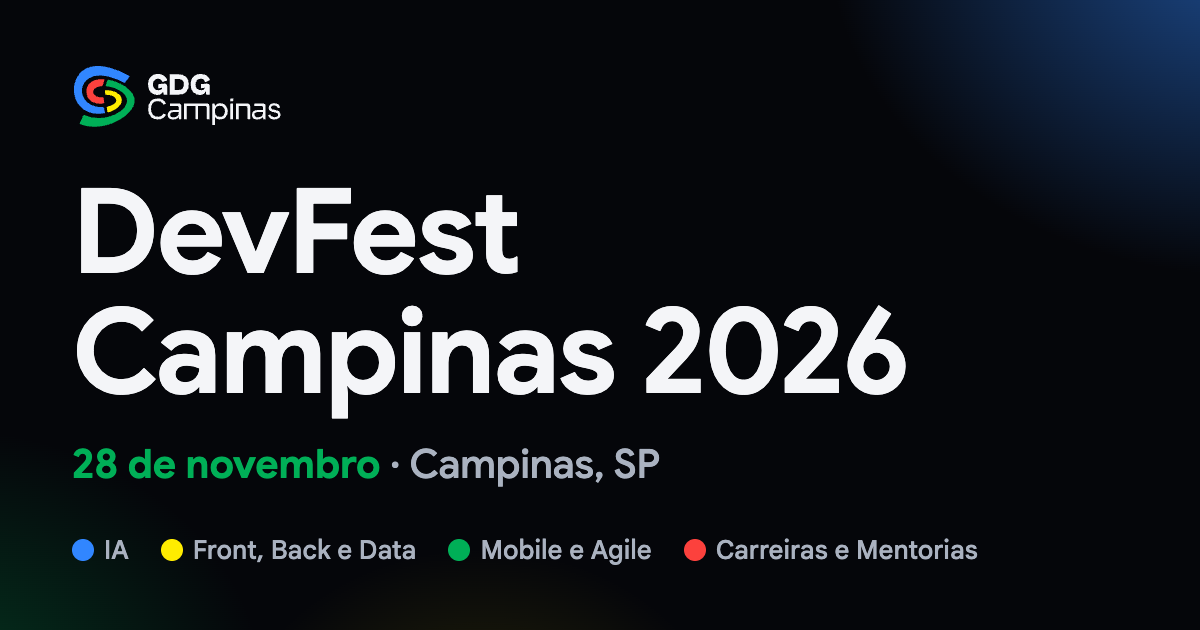
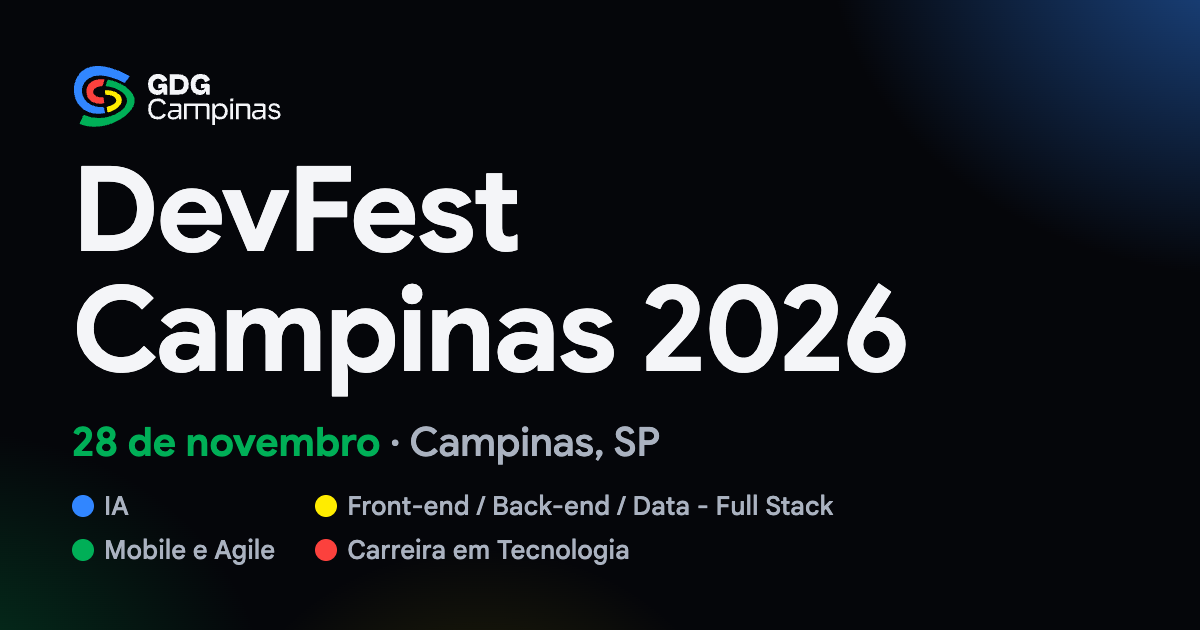
Rename the Front-end / Back-end / Data track to Front-end / Back-end / Data - Full Stack everywhere, including the share card and the og-image

Changed region(s): [[0.0617, 0.2413, 0.7708, 0.8143], [0.0617, 0.8444, 0.8325, 0.9048]]

diff --git a/DevFestIA/tools/i18n/check-i18n.js b/DevFestIA/tools/i18n/check-i18n.js
@@ -18,7 +18,7 @@ const read = file => fs.readFileSync(path.join(docs, file), "utf8");
 const errors = [];
 const fail = message => errors.push(message);
 
-const KEEP_AS_IS = new Set(["Coding Jam", "Antigravity", "Antigravity IDE", "Gemini", "Meetup", "Instagram", "LinkedIn", "Linktree", "VIP", "GDG Campinas", "DevFest Campinas", "EloTech 2026", "gdgcampinascontato@gmail.com", "Campinas, SP", "Sympla", "Links", "Networking", "Workshop", "Front-end / Back-end / Data", "Front/Back/Data", "Mobile / Agile", "Mobile/Agile", "Google Sans", "Master", "Senior", "Intern"]);
+const KEEP_AS_IS = new Set(["Coding Jam", "Antigravity", "Antigravity IDE", "Gemini", "Meetup", "Instagram", "LinkedIn", "Linktree", "VIP", "GDG Campinas", "DevFest Campinas", "EloTech 2026", "gdgcampinascontato@gmail.com", "Campinas, SP", "Sympla", "Links", "Networking", "Workshop", "Front-end / Back-end / Data - Full Stack", "Front/Back/Data - Full Stack", "Mobile / Agile", "Mobile/Agile", "Google Sans", "Master", "Senior", "Intern"]);
 // Campos dos dados que não são texto de tela (ids, endereços, cores, arquivos, textos já gerados por t()).
 const SKIP_KEYS = new Set(["id", "noteIcon", "url", "href", "color", "trackColor", "icon", "date", "start", "end", "timezone", "utcOffset", "image", "logo", "photo", "file", "youtubeId", "shape", "endpoint", "provider", "alt", "waitlistUrl", "imageUrl", "link", "slug", "price", "value", "min", "max", "moment"]);
 const isTechnical = value => /^(https?:|mailto:|var\(|assets\/|js\/|#)/.test(value) || /^[\d\s+.,%/-]+$/.test(value);

diff --git a/DevFestIA/design/og-image.html b/DevFestIA/design/og-image.html
@@ -24,9 +24,9 @@
   h1{font:700 118px/1.02 "Google Sans",Arial,sans-serif;letter-spacing:-2px}
   .when{margin-top:26px;font:500 40px "Google Sans",Arial,sans-serif;color:#aab2c0}
   .when b{color:var(--green);font-weight:700}
-  .tracks{display:flex;gap:14px;align-items:center;font:500 26px "Google Sans Text",Arial,sans-serif;color:#aab2c0}
+  .tracks{display:grid;grid-template-columns:auto auto;justify-content:start;gap:12px 40px;align-items:center;font:500 26px "Google Sans Text",Arial,sans-serif;color:#aab2c0}
   .dot{width:22px;height:22px;border-radius:50%}
-  .tracks span{display:flex;align-items:center;gap:10px;margin-right:18px}
+  .tracks span{display:flex;align-items:center;gap:10px;white-space:nowrap}
 </style></head>
 <body><div class="wrap">
   <div class="brand"><img src="../../docs/assets/brand/gdg-logo-dark.svg" alt="GDG Campinas"></div>
@@ -36,7 +36,7 @@
   </div>
   <div class="tracks">
     <span><i class="dot" style="background:var(--blue)"></i>IA</span>
-    <span><i class="dot" style="background:var(--yellow)"></i>Front, Back e Data</span>
+    <span><i class="dot" style="background:var(--yellow)"></i>Front-end / Back-end / Data - Full Stack</span>
     <span><i class="dot" style="background:var(--green)"></i>Mobile e Agile</span>
     <span><i class="dot" style="background:var(--red)"></i>Carreira em Tecnologia</span>
   </div>

diff --git a/docs/js/data/schedule.js b/docs/js/data/schedule.js
@@ -68,7 +68,7 @@ const roomFor = place => `Sala ${place}`;
 const TRACKS = [
   { id: "ia", label: "IA", shortLabel: "IA", room: roomFor("Observatório"), mc: "MC a definir", color: "var(--ia)", icon: "sparkles",
     description: "Modelos, agentes e aplicações de inteligência artificial na prática, do fundamento ao que já roda em produção." },
-  { id: "webdata", label: "Front-end / Back-end / Data", shortLabel: "Front/Back/Data", room: roomFor("Estação"), mc: "MC a definir", color: "var(--webdata)", icon: "code",
+  { id: "webdata", label: "Front-end / Back-end / Data - Full Stack", shortLabel: "Front/Back/Data - Full Stack", room: roomFor("Estação"), mc: "MC a definir", color: "var(--webdata)", icon: "code",
     description: "Arquitetura, engenharia de dados e desenvolvimento web: as bases que sustentam qualquer produto digital." },
   { id: "mobile", label: "Mobile / Agile", shortLabel: "Mobile/Agile", room: roomFor("Lagoa do Taquaral"), mc: "MC a definir", color: "var(--mobile)", icon: "phone",
     description: "Apps nativos e multiplataforma, e os métodos ágeis que fazem times entregarem rápido e com qualidade." },

diff --git a/docs/ingressos.html b/docs/ingressos.html
@@ -77,7 +77,7 @@
 
 <script src="js/data/repository.js?v=1"></script>
 <script src="js/data/i18n/languages.js?v=1"></script>
-<script src="js/data/i18n/en.js?v=34"></script>
+<script src="js/data/i18n/en.js?v=35"></script>
 <script src="js/features/i18n-core.js?v=1"></script>
 <script src="js/features/i18n.js?v=1"></script>
 <script src="js/data/firebase-config.js?v=1"></script>
@@ -127,7 +127,7 @@
 <script src="js/features/pwa.js?v=4"></script>
 <script src="js/features/analytics.js?v=1"></script>
 <script src="js/features/registration-gate.js?v=1"></script>
-<script src="js/features/share-card.js?v=5"></script>
+<script src="js/features/share-card.js?v=6"></script>
 <script src="js/features/rehearsal.js?v=2"></script>
 <script src="js/app.js?v=29"></script>
 <script src="js/pages/ingressos.js?v=6"></script>

diff --git a/docs/js/features/share-card.js b/docs/js/features/share-card.js
@@ -77,7 +77,7 @@ function drawShareCard(canvas, { event, dateLabel, name = "", logo = null }) {
 
   const tracks = [
     { label: t("shareCard.trackIa", "IA"), color: blue },
-    { label: t("shareCard.trackWeb", "Front, Back e Data"), color: yellow },
+    { label: t("shareCard.trackWeb", "Front-end / Back-end / Data - Full Stack"), color: yellow },
     { label: t("shareCard.trackMobile", "Mobile e Agile"), color: green },
     { label: t("shareCard.trackCareers", "Carreira em Tecnologia"), color: red },
   ];

diff --git a/docs/mural.html b/docs/mural.html
@@ -31,7 +31,7 @@
 <script src="https://cdnjs.cloudflare.com/ajax/libs/qrcodejs/1.0.0/qrcode.min.js"></script>
 <script src="js/data/repository.js?v=1"></script>
 <script src="js/data/i18n/languages.js?v=1"></script>
-<script src="js/data/i18n/en.js?v=34"></script>
+<script src="js/data/i18n/en.js?v=35"></script>
 <script src="js/features/i18n-core.js?v=1"></script>
 <script src="js/features/i18n.js?v=1"></script>
 <script src="js/data/firebase-config.js?v=1"></script>

diff --git a/docs/js/data/i18n/en.js b/docs/js/data/i18n/en.js
@@ -119,7 +119,7 @@ I18N_DICTIONARIES.en = {
     "shareCard.nameGoes": "{name} is going!",
     "shareCard.going": "I'm going!",
     "shareCard.trackIa": "AI",
-    "shareCard.trackWeb": "Front, Back and Data",
+    "shareCard.trackWeb": "Front-end / Back-end / Data - Full Stack",
     "shareCard.trackMobile": "Mobile and Agile",
     "shareCard.trackCareers": "Careers and Mentoring",
     "shareCard.modalLabel": "Sharing card",

diff --git a/docs/index.html b/docs/index.html
@@ -171,7 +171,7 @@
 -->
 <script src="js/data/repository.js?v=1"></script>
 <script src="js/data/i18n/languages.js?v=1"></script>
-<script src="js/data/i18n/en.js?v=34"></script>
+<script src="js/data/i18n/en.js?v=35"></script>
 <script src="js/features/i18n-core.js?v=1"></script>
 <script src="js/features/i18n.js?v=1"></script>
 <script src="js/data/firebase-config.js?v=1"></script>

diff --git a/docs/admin.html b/docs/admin.html
@@ -25,7 +25,7 @@
 
 <script src="js/data/repository.js?v=1"></script>
 <script src="js/data/i18n/languages.js?v=1"></script>
-<script src="js/data/i18n/en.js?v=34"></script>
+<script src="js/data/i18n/en.js?v=35"></script>
 <script src="js/features/i18n-core.js?v=1"></script>
 <script src="js/features/i18n.js?v=1"></script>
 <script src="js/data/firebase-config.js?v=1"></script>

diff --git a/docs/codigo-de-conduta.html b/docs/codigo-de-conduta.html
@@ -62,7 +62,7 @@
 
 <script src="js/data/repository.js?v=1"></script>
 <script src="js/data/i18n/languages.js?v=1"></script>
-<script src="js/data/i18n/en.js?v=34"></script>
+<script src="js/data/i18n/en.js?v=35"></script>
 <script src="js/features/i18n-core.js?v=1"></script>
 <script src="js/features/i18n.js?v=1"></script>
 <script src="js/data/firebase-config.js?v=1"></script>

diff --git a/docs/grade.html b/docs/grade.html
@@ -80,7 +80,7 @@
 
 <script src="js/data/repository.js?v=1"></script>
 <script src="js/data/i18n/languages.js?v=1"></script>
-<script src="js/data/i18n/en.js?v=34"></script>
+<script src="js/data/i18n/en.js?v=35"></script>
 <script src="js/features/i18n-core.js?v=1"></script>
 <script src="js/features/i18n.js?v=1"></script>
 <script src="js/data/firebase-config.js?v=1"></script>

diff --git a/docs/moderacao.html b/docs/moderacao.html
@@ -22,7 +22,7 @@
 
 <script src="js/data/repository.js?v=1"></script>
 <script src="js/data/i18n/languages.js?v=1"></script>
-<script src="js/data/i18n/en.js?v=34"></script>
+<script src="js/data/i18n/en.js?v=35"></script>
 <script src="js/features/i18n-core.js?v=1"></script>
 <script src="js/features/i18n.js?v=1"></script>
 <script src="js/data/firebase-config.js?v=1"></script>
